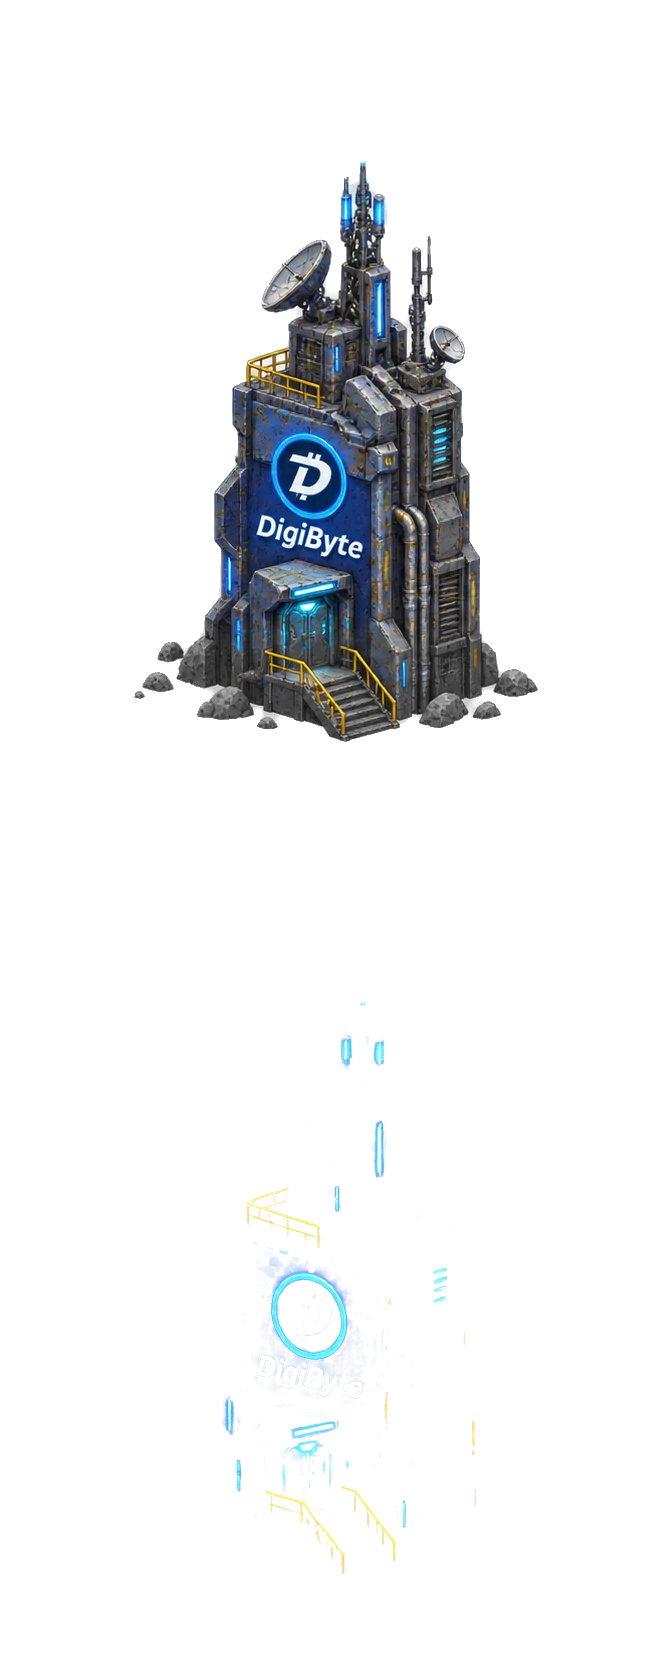
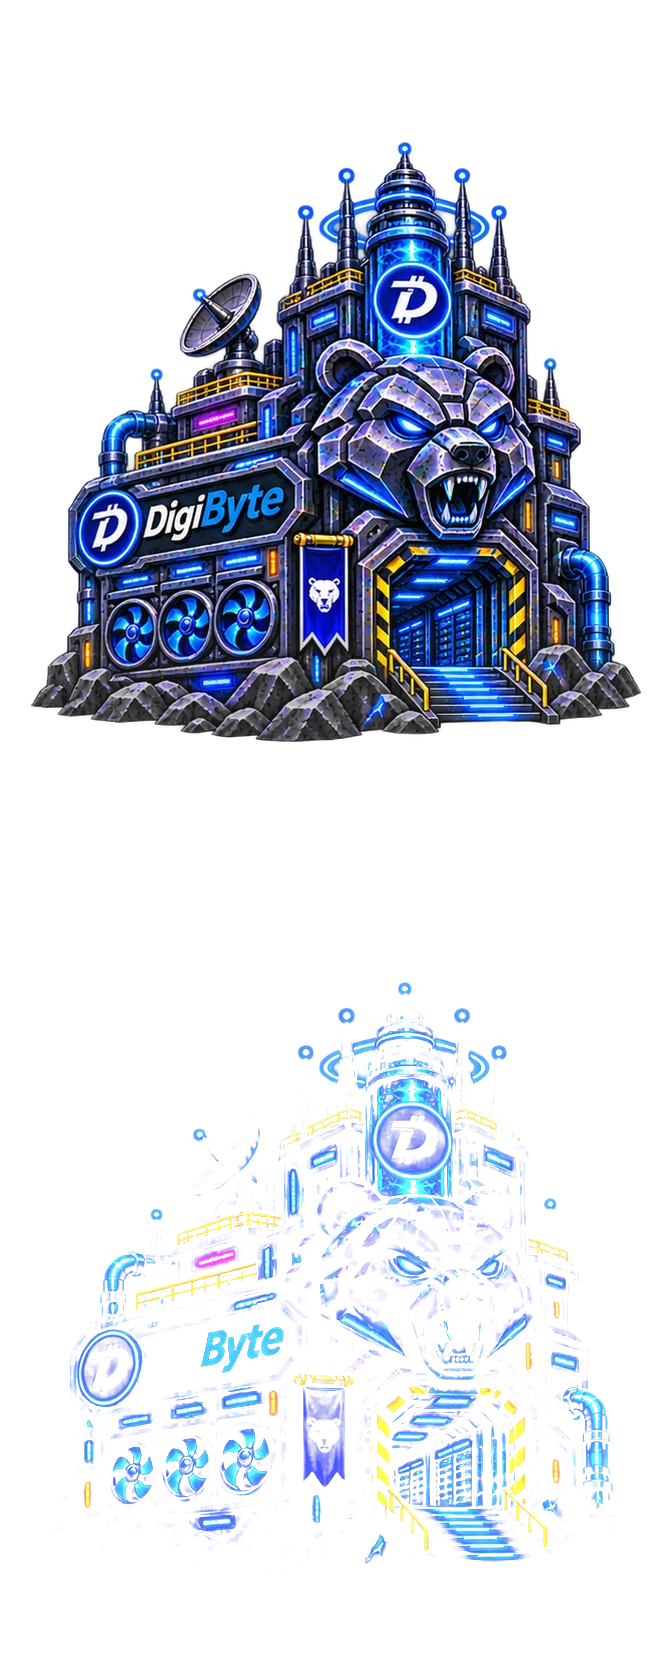
Redraw Survival Grid alternate miners with neon pixel art

diff --git a/games/block-topia/test-builds/compare/survival/index.html b/games/block-topia/test-builds/compare/survival/index.html
@@ -8,7 +8,7 @@
   <meta name="robots" content="noindex, follow">
   <title>Survival Grid · Block Topia Map Comparison</title>
   <link rel="stylesheet" href="/games/block-topia/test-builds/compare/comparison.css">
-  <script type="module" src="/games/block-topia/test-builds/compare/comparison.mjs?v=15"></script>
+  <script type="module" src="/games/block-topia/test-builds/compare/comparison.mjs?v=16"></script>
 </head>
 <body data-map="survival">
 <main>

diff --git a/games/block-topia/AGENTS.md b/games/block-topia/AGENTS.md
@@ -13,6 +13,7 @@ GK approved the placement, camera angles, in-world scale, and close-zoom art for
 | [Moon comparison](test-builds/compare/moon/index.html) | Tilted Moon camera. [comparison.mjs](test-builds/compare/comparison.mjs) places Bitcoin Cash at the rear starting at `(24,14)` and WAX at its existing comparison position. |
 
 - Keep the original projections, camera framing and zoom behavior for each map, along with its ground anchors and depth order.
+- Match the Survival miners to the polished cyber-bull references. Use shiny bevelled armor, dense pixel-style detail, saturated neon, and fierce animal emblems with bright eyes. Keep bull and bear faces bold, wasp masks aggressive, and the left-facing entrances and readable logos on the alternate set.
 - Keep the tall Bitcoin Cash silhouette and its 1.7× draw scale relative to the standard miners. Its rear placement gives the skyline room while keeping the main routes clear.
 - Use the appropriate isometric, overhead, or tilted Moon atlas. On both Moon views, use the corrected WAX Bee sprite with its entry and base aligned to the sloping Moon grid. The approved miner sheets have twelve transparent 672 × 840 frames in four columns by three rows. Keep the 12 fps loop, stationary foundation, reduced-motion first frame, and high-quality sampling for the miners at close zoom.
 - For natural Moon rocks around building bases, use neutral regolith grey `#585858`, sampled from the Node City terrain, with charcoal shadows around `#242424` and lit facets around `#8E8E8E`. Retain the stone texture and upper-left light direction. Keep the exposed edges irregular, with individual jagged rocks and gaps around the foundation. Keep pink and purple out of the stone palette, and keep intentional lights and metalwork in their own colours. Use this palette for future foundation sprites at every camera angle.
